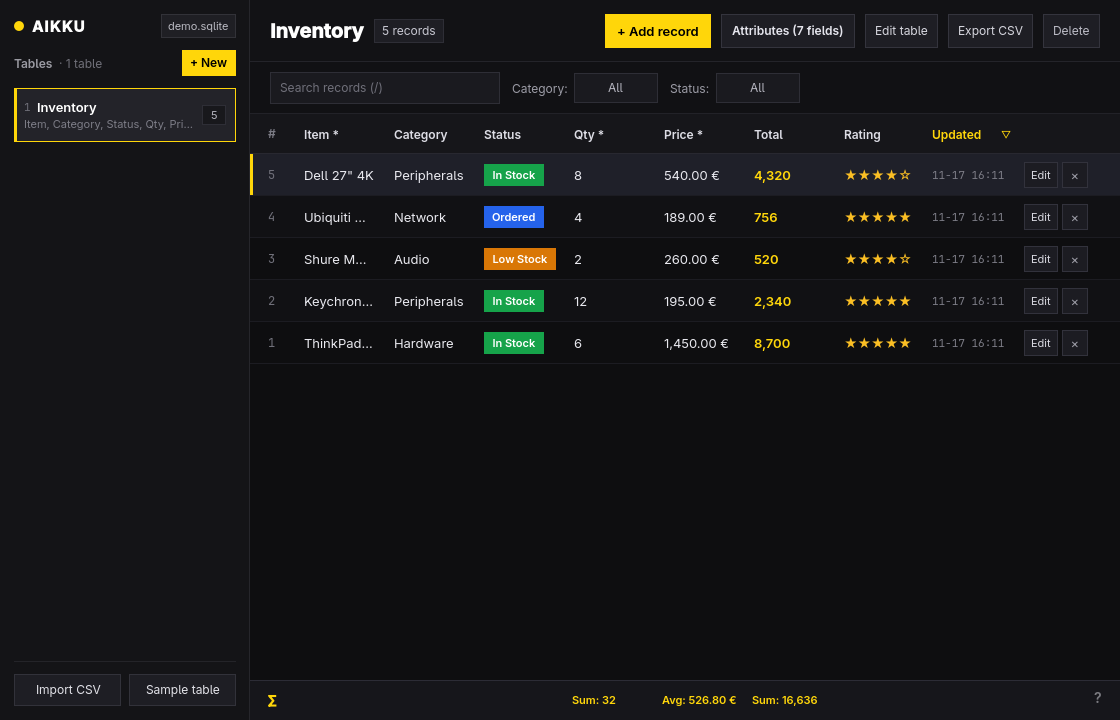
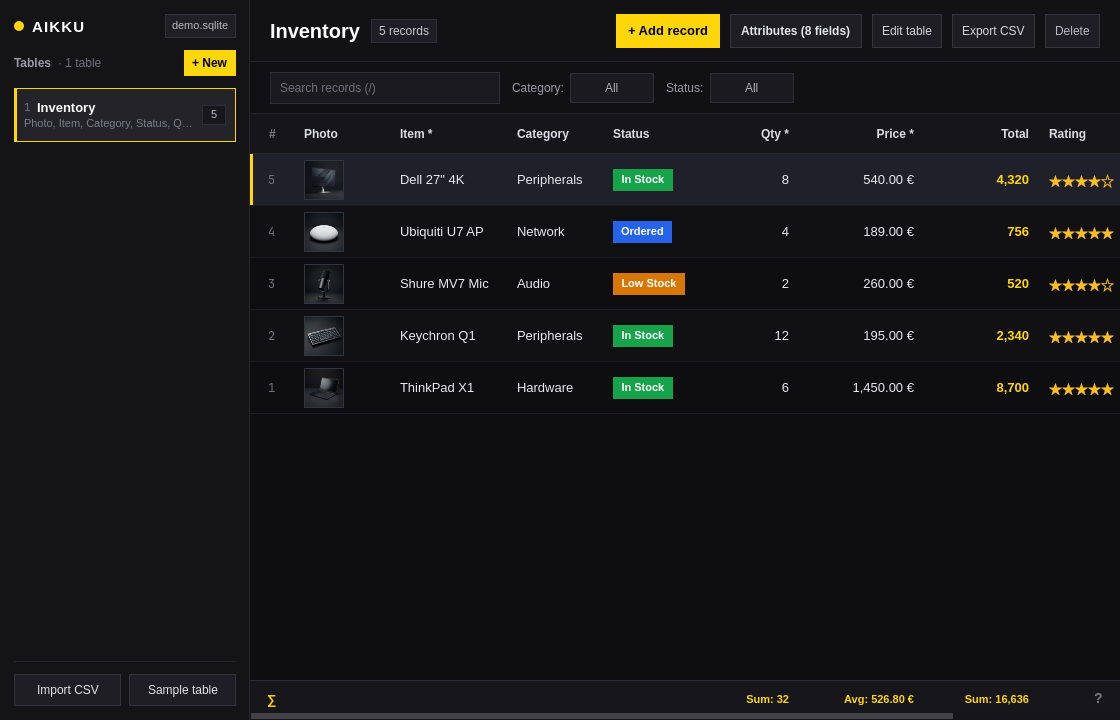
Added product photos for all 5 items in the sample Inventory table:

diff --git a/src/backend.cpp b/src/backend.cpp
@@ -1251,15 +1251,39 @@ int Backend::createSampleTable() {
         return fq.lastInsertId().toInt();
     };
 
-    const int fItem = insertField(QStringLiteral("Item"), QStringLiteral("Text"), {}, true, false, {}, 1, QStringLiteral("Equipment name"));
-    const int fCat = insertField(QStringLiteral("Category"), QStringLiteral("List"), QStringLiteral("Hardware, Peripherals, Audio, Network"), false, true, {}, 2, QStringLiteral("Asset category"));
-    const int fStatus = insertField(QStringLiteral("Status"), QStringLiteral("Status"), QStringLiteral("In Stock:green, Low Stock:yellow, Ordered:blue, Retired:gray"), false, true, {}, 3, QStringLiteral("Current stock status"));
-    const int fQty = insertField(QStringLiteral("Qty"), QStringLiteral("Number"), {}, true, false, QStringLiteral("Sum"), 4, QStringLiteral("Units on hand"));
-    const int fPrice = insertField(QStringLiteral("Price"), QStringLiteral("Euros"), {}, true, false, QStringLiteral("Average"), 5, QStringLiteral("Unit cost in EUR"));
-    const int fTotal = insertField(QStringLiteral("Total"), QStringLiteral("Formula"), QStringLiteral("[Qty] * [Price]"), false, false, QStringLiteral("Sum"), 6, QStringLiteral("Computed value"));
-    const int fRating = insertField(QStringLiteral("Rating"), QStringLiteral("Stars"), {}, false, false, {}, 7, QStringLiteral("Condition rating 1-5"));
+    const int fPhoto = insertField(QStringLiteral("Photo"), QStringLiteral("Image"), {}, false, false, {}, 1, QStringLiteral("Product photo"));
+    const int fItem = insertField(QStringLiteral("Item"), QStringLiteral("Text"), {}, true, false, {}, 2, QStringLiteral("Equipment name"));
+    const int fCat = insertField(QStringLiteral("Category"), QStringLiteral("List"), QStringLiteral("Hardware, Peripherals, Audio, Network"), false, true, {}, 3, QStringLiteral("Asset category"));
+    const int fStatus = insertField(QStringLiteral("Status"), QStringLiteral("Status"), QStringLiteral("In Stock:green, Low Stock:yellow, Ordered:blue, Retired:gray"), false, true, {}, 4, QStringLiteral("Current stock status"));
+    const int fQty = insertField(QStringLiteral("Qty"), QStringLiteral("Number"), {}, true, false, QStringLiteral("Sum"), 5, QStringLiteral("Units on hand"));
+    const int fPrice = insertField(QStringLiteral("Price"), QStringLiteral("Euros"), {}, true, false, QStringLiteral("Average"), 6, QStringLiteral("Unit cost in EUR"));
+    const int fTotal = insertField(QStringLiteral("Total"), QStringLiteral("Formula"), QStringLiteral("[Qty] * [Price]"), false, false, QStringLiteral("Sum"), 7, QStringLiteral("Computed value"));
+    const int fRating = insertField(QStringLiteral("Rating"), QStringLiteral("Stars"), {}, false, false, {}, 8, QStringLiteral("Condition rating 1-5"));
+
+    auto insertSampleBlob = [&](const QString &filename) -> QString {
+        QFile res(QStringLiteral(":/samples/") + filename);
+        if (!res.open(QIODevice::ReadOnly))
+            return {};
+        const QByteArray bytes = res.readAll();
+        QImage img;
+        img.loadFromData(bytes);
+
+        QSqlQuery bq(db);
+        bq.prepare(QStringLiteral(
+            "INSERT INTO blobs (filename, mime_type, width, height, data, created_at) "
+            "VALUES (?, 'image/jpeg', ?, ?, ?, ?)"));
+        bq.addBindValue(filename);
+        bq.addBindValue(img.width());
+        bq.addBindValue(img.height());
+        bq.addBindValue(bytes);
+        bq.addBindValue(ts);
+        if (!bq.exec())
+            return {};
+        return QStringLiteral("blob:%1").arg(bq.lastInsertId().toInt());
+    };
 
     struct SampleRow {
+        QString photoFile;
         QString item;
         QString cat;
         QString status;
@@ -1269,19 +1293,20 @@ int Backend::createSampleTable() {
         QString rating;
     };
     const QList<SampleRow> rows = {
-        {QStringLiteral("ThinkPad X1"), QStringLiteral("Hardware"), QStringLiteral("In Stock"), QStringLiteral("6"), QStringLiteral("1450"), QStringLiteral("8700"), QStringLiteral("5")},
-        {QStringLiteral("Keychron Q1"), QStringLiteral("Peripherals"), QStringLiteral("In Stock"), QStringLiteral("12"), QStringLiteral("195"), QStringLiteral("2340"), QStringLiteral("5")},
-        {QStringLiteral("Shure MV7 Mic"), QStringLiteral("Audio"), QStringLiteral("Low Stock"), QStringLiteral("2"), QStringLiteral("260"), QStringLiteral("520"), QStringLiteral("4")},
-        {QStringLiteral("Ubiquiti U7 AP"), QStringLiteral("Network"), QStringLiteral("Ordered"), QStringLiteral("4"), QStringLiteral("189"), QStringLiteral("756"), QStringLiteral("5")},
-        {QStringLiteral("Dell 27\" 4K"), QStringLiteral("Peripherals"), QStringLiteral("In Stock"), QStringLiteral("8"), QStringLiteral("540"), QStringLiteral("4320"), QStringLiteral("4")},
+        {QStringLiteral("thinkpad-x1.jpg"), QStringLiteral("ThinkPad X1"), QStringLiteral("Hardware"), QStringLiteral("In Stock"), QStringLiteral("6"), QStringLiteral("1450"), QStringLiteral("8700"), QStringLiteral("5")},
+        {QStringLiteral("keychron-q1.jpg"), QStringLiteral("Keychron Q1"), QStringLiteral("Peripherals"), QStringLiteral("In Stock"), QStringLiteral("12"), QStringLiteral("195"), QStringLiteral("2340"), QStringLiteral("5")},
+        {QStringLiteral("shure-mv7.jpg"), QStringLiteral("Shure MV7 Mic"), QStringLiteral("Audio"), QStringLiteral("Low Stock"), QStringLiteral("2"), QStringLiteral("260"), QStringLiteral("520"), QStringLiteral("4")},
+        {QStringLiteral("ubiquiti-u7-ap.jpg"), QStringLiteral("Ubiquiti U7 AP"), QStringLiteral("Network"), QStringLiteral("Ordered"), QStringLiteral("4"), QStringLiteral("189"), QStringLiteral("756"), QStringLiteral("5")},
+        {QStringLiteral("dell-27-4k.jpg"), QStringLiteral("Dell 27\" 4K"), QStringLiteral("Peripherals"), QStringLiteral("In Stock"), QStringLiteral("8"), QStringLiteral("540"), QStringLiteral("4320"), QStringLiteral("4")},
     };
 
     for (int i = 0; i < rows.size(); ++i) {
         const int recIdx = i + 1;
         const SampleRow &r = rows.at(i);
+        const QString photoRef = insertSampleBlob(r.photoFile);
         const QList<QPair<int, QString>> pairs = {
-            {fItem, r.item}, {fCat, r.cat}, {fStatus, r.status}, {fQty, r.qty},
-            {fPrice, r.price}, {fTotal, r.total}, {fRating, r.rating}
+            {fPhoto, photoRef}, {fItem, r.item}, {fCat, r.cat}, {fStatus, r.status},
+            {fQty, r.qty}, {fPrice, r.price}, {fTotal, r.total}, {fRating, r.rating}
         };
         for (const auto &p : pairs) {
             QSqlQuery vq(db);

diff --git a/tests/aikku-database_tests.cpp b/tests/aikku-database_tests.cpp
@@ -535,6 +535,13 @@ private slots:
         QCOMPARE(grab.width(), 1120);
         QCOMPARE(grab.height(), 720);
 
+        // Verify the sample table's built-in product photos are embedded and rendered in column 0.
+        QCOMPARE(backend.fieldCount(), 8);
+        QCOMPARE(backend.fields().first().toMap().value("datatype").toString(), QString("Image"));
+        auto *sampleThumb = findVisualItem(window->contentItem(), "gridImageThumb_0_0");
+        QVERIFY(sampleThumb != nullptr);
+        QVERIFY(sampleThumb->isVisible());
+
         // Open Add Record dialog via Space / openRecordDialog(0) and verify form fields are visible and interactive.
         QMetaObject::invokeMethod(window, "openRecordDialog", Q_ARG(QVariant, 0));
         QTest::qWait(80);
@@ -546,17 +553,17 @@ private slots:
         QVERIFY(panel->height() > 300);
         QVERIFY(fieldsCol->height() > 200);
 
-        auto *input0 = findVisualItem(fieldsCol, "recordFieldInput_0");
-        auto *input3 = findVisualItem(fieldsCol, "recordFieldInput_3");
+        auto *input1 = findVisualItem(fieldsCol, "recordFieldInput_1");
         auto *input4 = findVisualItem(fieldsCol, "recordFieldInput_4");
-        QVERIFY(input0 != nullptr && input3 != nullptr && input4 != nullptr);
-        QVERIFY(input0->width() > 200);
-        QVERIFY(input0->isVisible());
+        auto *input5 = findVisualItem(fieldsCol, "recordFieldInput_5");
+        QVERIFY(input1 != nullptr && input4 != nullptr && input5 != nullptr);
+        QVERIFY(input1->width() > 200);
+        QVERIFY(input1->isVisible());
 
         // Enter values into the form inputs and submit.
-        input0->setProperty("text", "Framework Laptop 13");
-        input3->setProperty("text", "3");
-        input4->setProperty("text", "1100");
+        input1->setProperty("text", "Framework Laptop 13");
+        input4->setProperty("text", "3");
+        input5->setProperty("text", "1100");
         QTest::qWait(40);
 
         QMetaObject::invokeMethod(window, "submitRecordDialog", Q_ARG(QVariant, false));
